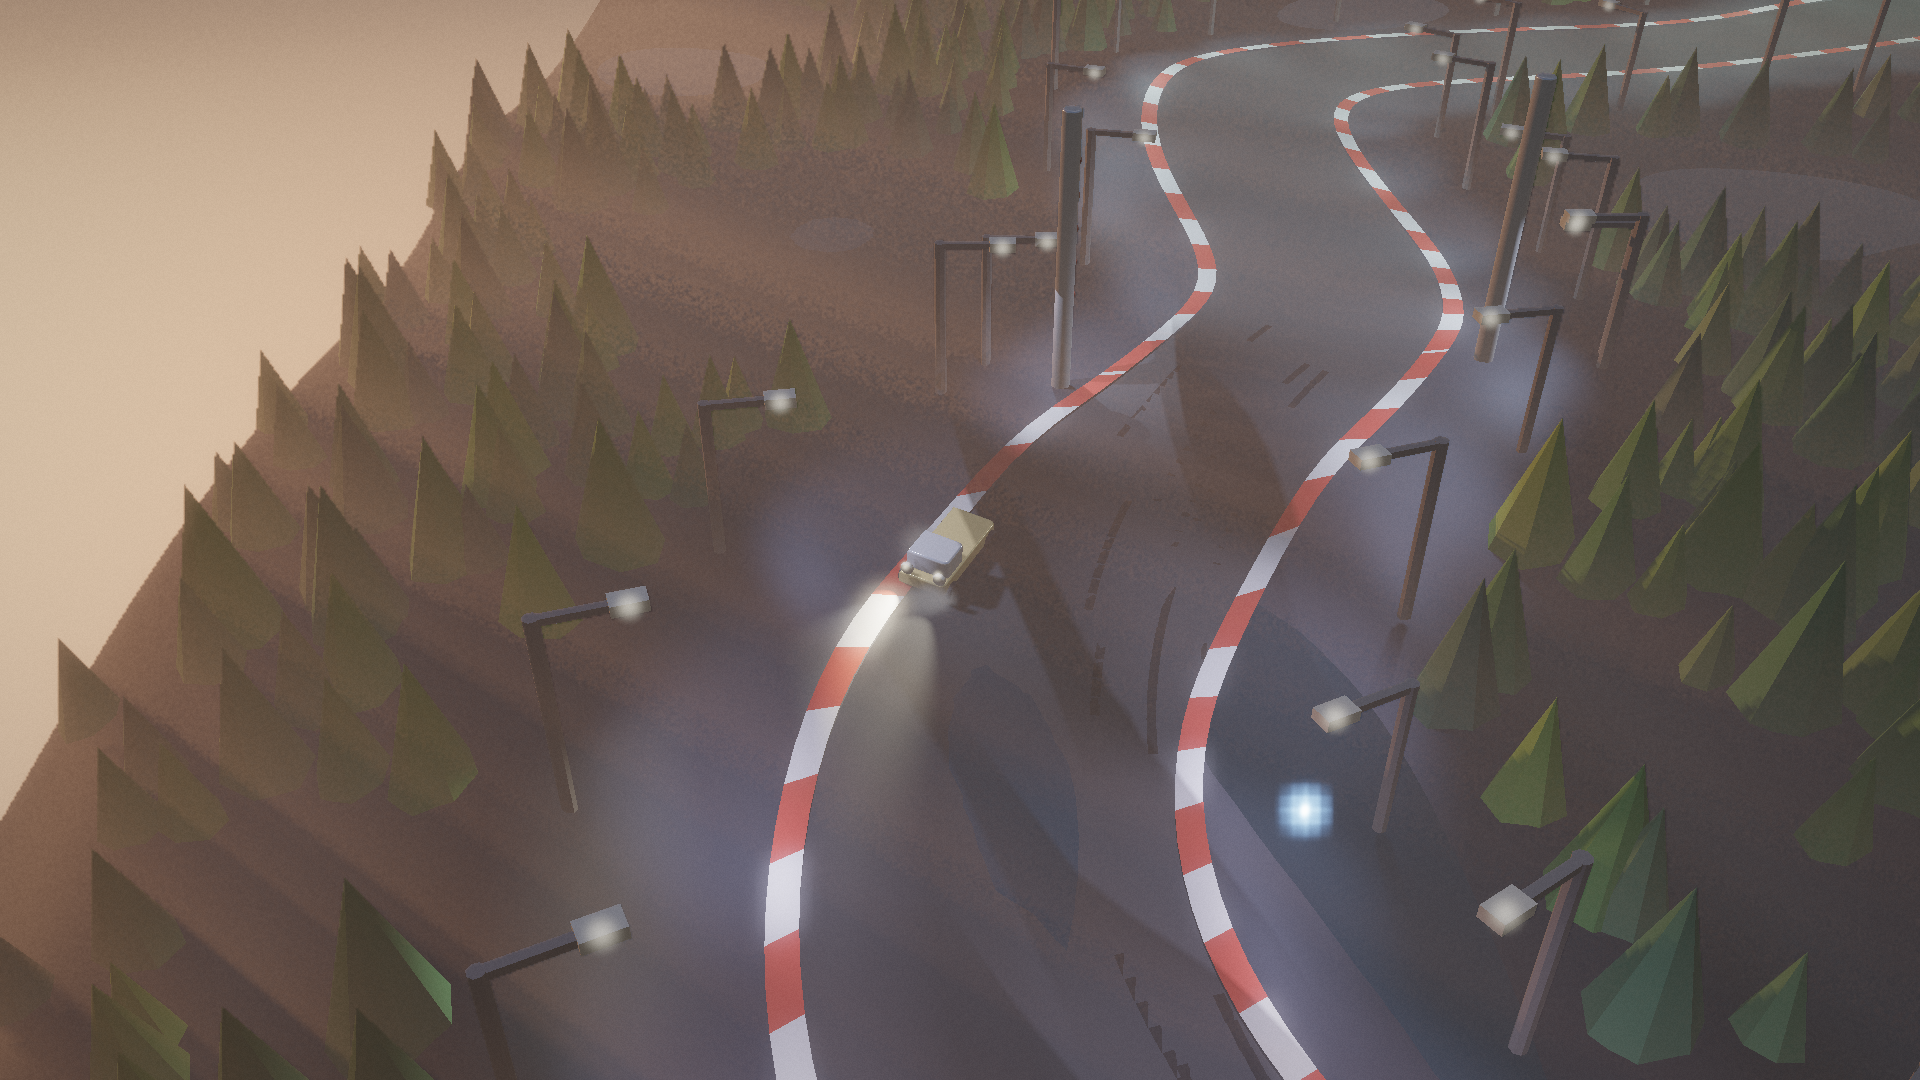
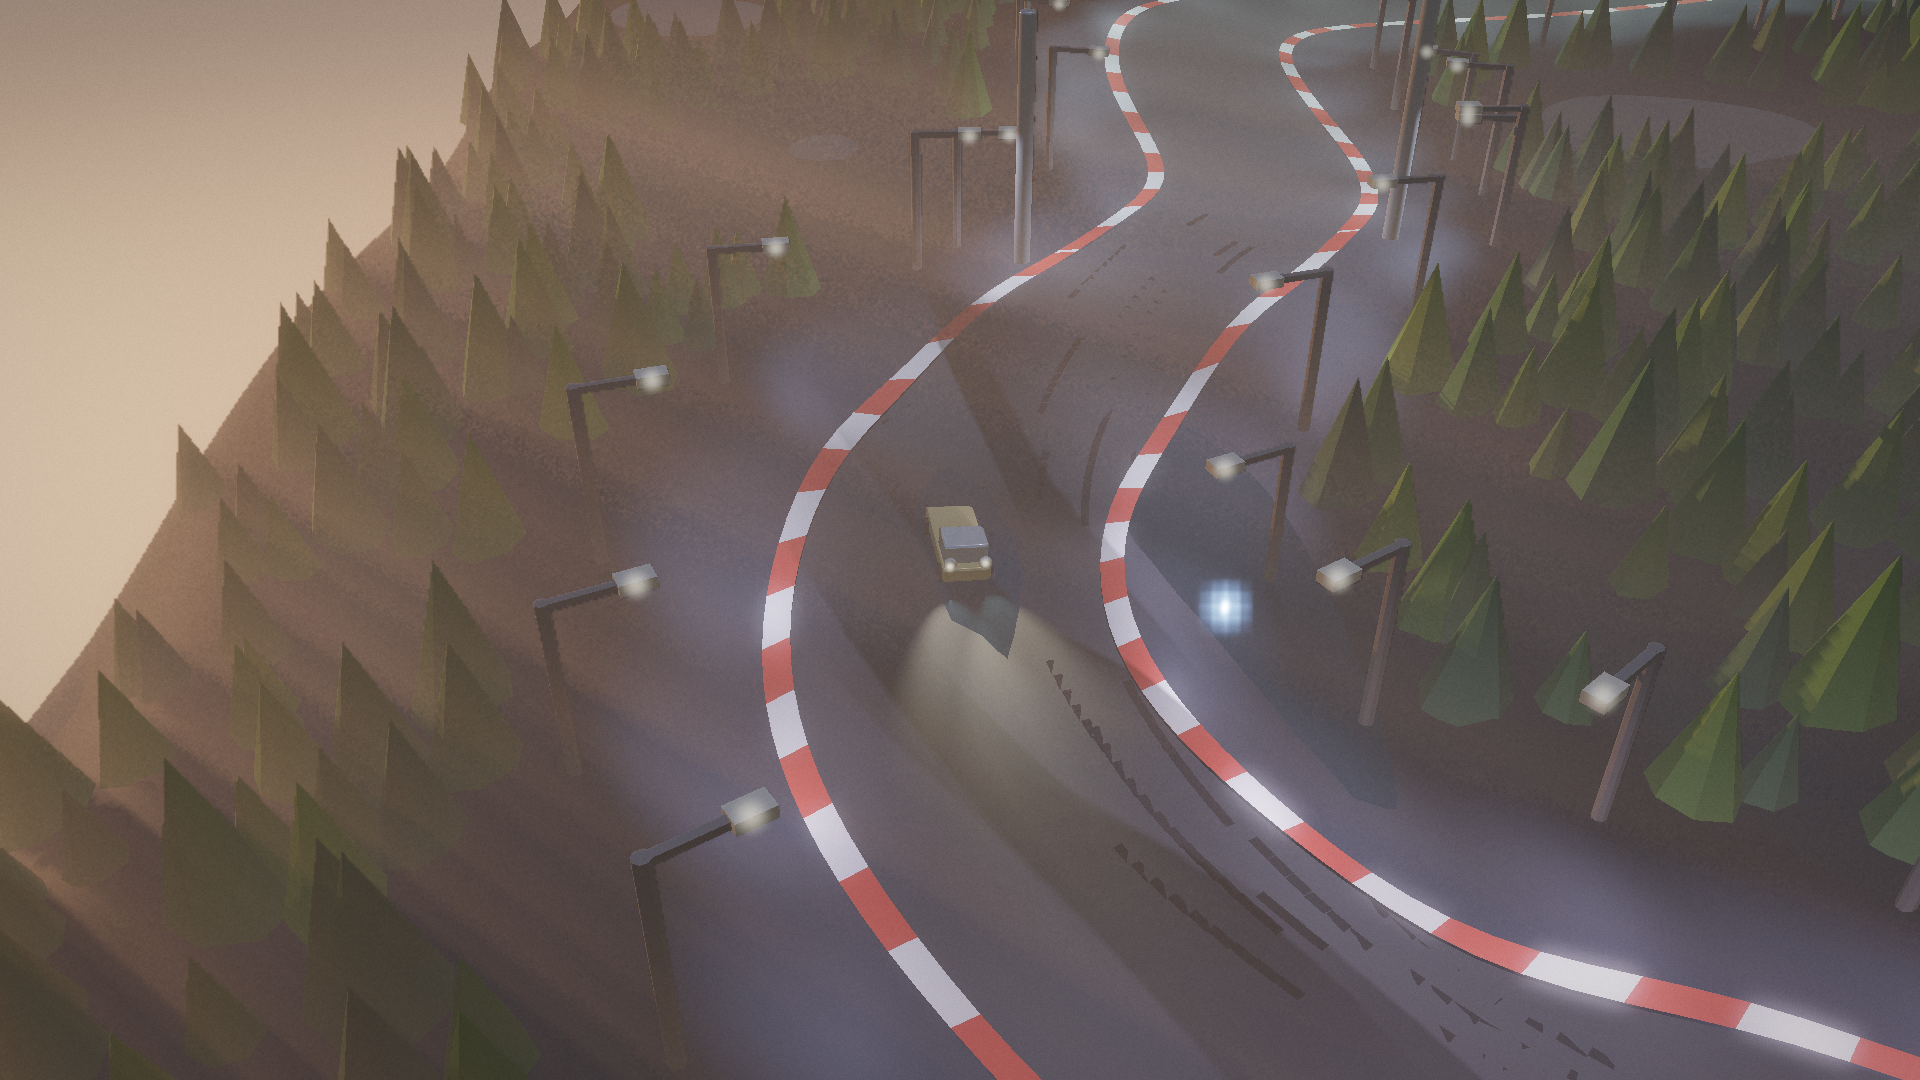
Pin the renderer at v0.9.1: the mist no longer ends at an arc
The fog stopped dead where its march ran out of reach, which from a high
camera reads as a straight line ruled across the frame — the artefact
Chris spotted at half seven. The renderer now tapers the last third of
the reach. README says what the reach costs either way, since it is the
one fog number that cannot be moved freely.

diff --git a/README.md b/README.md
@@ -788,8 +788,21 @@ from the sky rather than the sun, and the thing that keeps the shadowed half
 of it a cold blue rather than black. A reach of 9000 and 28 steps, dithered
 per pixel and per frame, marched at half size.
 
-**What it costs: 0.36 ms** at 1920×1080 and 0.52 at 2560×1440, and only
-between two and half nine. At every other hour the density is zero, the
+The reach used to show. A march that ends because it ran out of reach rather
+than because it ran into something stopped dead, so the mist reached full
+strength nine metres out and went no further — and the set of points nine
+metres from the eye is a sphere, which is an arc ruled across the frame,
+straight enough from a high camera to look drawn on. The renderer now ramps
+the density down over the last third of the reach; in a still test scene that
+takes the sharpest step in the fog from 8.2 levels to 5.1 against a range of
+40. Worth knowing if the mist is ever retuned: raising `reach` costs steps,
+because the march always takes `steps` of them however far it goes, and
+lowering it brings the taper close enough to see as the mist thinning too
+early.
+
+**What it costs: 0.14 to 0.36 ms** at 1920×1080 depending on how much of
+the frame is mist, and 0.52 at 2560×1440, and only between two and half
+nine. At every other hour the density is zero, the
 passes are skipped, and the frame is exactly what it was.
 
 One thing it does not do: the floodlights do not light it. The mist is lit
